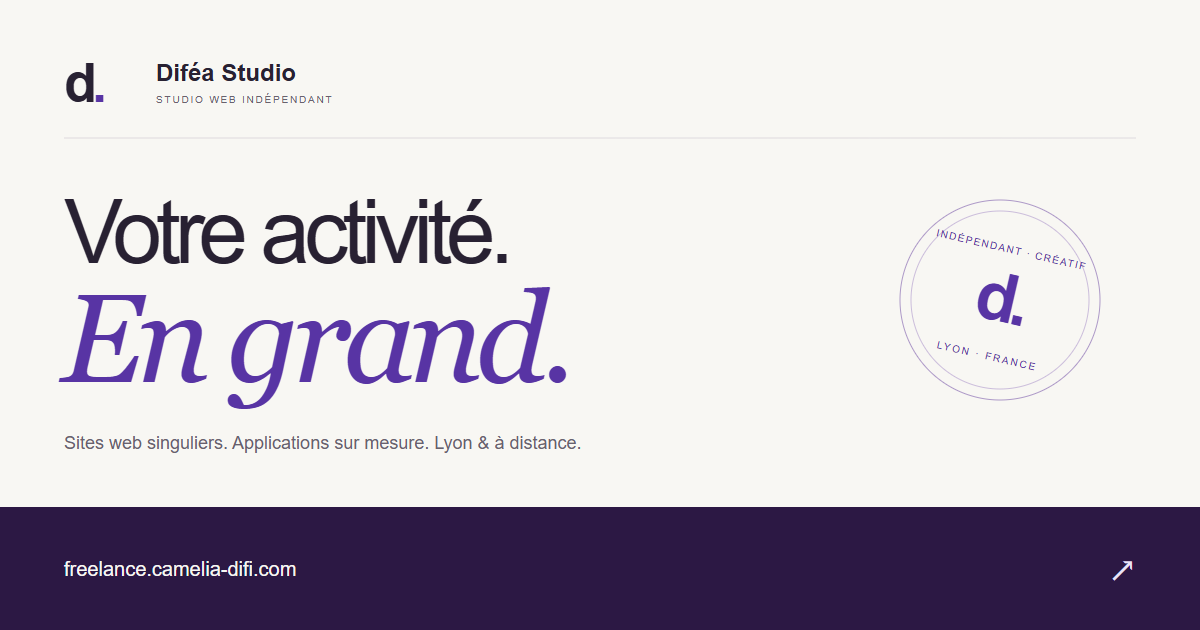
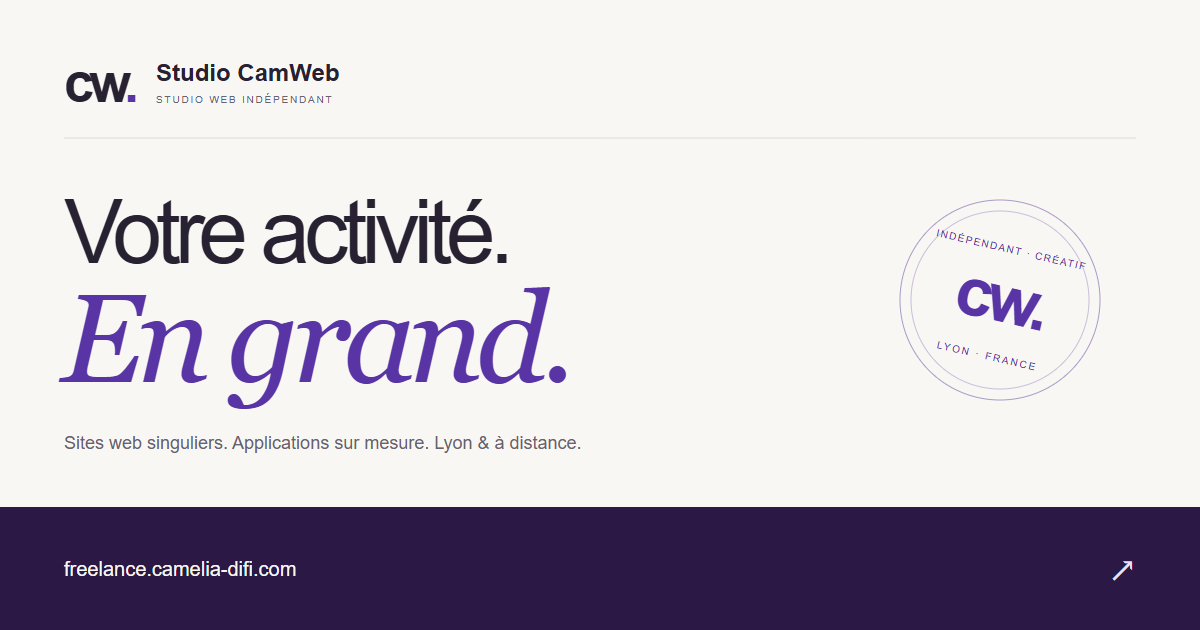
Apply Studio CamWeb brand and cw monogram

Changed region(s): [[0.1233, 0.0905, 0.2775, 0.1508], [0.8017, 0.4222, 0.8633, 0.5127], [0.0617, 0.0905, 0.1233, 0.181]]

diff --git a/src/App.jsx b/src/App.jsx
@@ -24,7 +24,7 @@ const questions = (t) => [
   [t("Quand peut-on démarrer ?"), t("Le délai dépend de mon planning et du périmètre de votre projet. Écrivez-moi pour connaître mes prochaines disponibilités.")],
 ];
 
-function Brand() { const t = useTranslation(); return <a className="brand" href="#top" aria-label={t("Diféa Studio, accueil")}><span className="brand-mark">d<span>.</span></span><span>Diféa Studio<span className="brand-caption">{t("STUDIO WEB INDÉPENDANT")}</span></span></a>; }
+function Brand() { const t = useTranslation(); return <a className="brand" href="#top" aria-label={t("Studio CamWeb, accueil")}><span className="brand-mark">cw<span>.</span></span><span>Studio CamWeb<span className="brand-caption">{t("STUDIO WEB INDÉPENDANT")}</span></span></a>; }
 
 function Header() { const t = useTranslation();
   const [open, setOpen] = useState(false);
@@ -33,7 +33,7 @@ function Header() { const t = useTranslation();
 
 function StudioSeal({ className = '' }) {
   const t = useTranslation();
-  return <div className={`studio-seal ${className}`} aria-hidden="true"><span>{t("INDÉPENDANT · CRÉATIF")}</span><strong>d<span>.</span></strong><span>LYON · FRANCE</span></div>;
+  return <div className={`studio-seal ${className}`} aria-hidden="true"><span>{t("INDÉPENDANT · CRÉATIF")}</span><strong>cw<span>.</span></strong><span>LYON · FRANCE</span></div>;
 }
 
 function MockSite({ variant = 'alba' }) {
@@ -80,7 +80,7 @@ function Stack() { const t = useTranslation(); const groups = [['Front-end', ['T
 
 function Method() { const t = useTranslation(); return <section className="section container" id="methode"><SectionHeading eyebrow={t("COMMENT ON TRAVAILLE ENSEMBLE")} title={<>{t("Un cap clair.")}<br /><em>{t("À chaque étape.")}</em></>} text={t("Pas de boîte noire : vous savez ce qui avance, ce qui vient ensuite et ce que cela coûte.")} /><div className="steps">{steps(t).map(([title, text], i) => <article className="step" key={title}><div className="step-track"><span>0{i + 1}</span><ArrowRight size={18} /></div><h3>{title}</h3><p>{text}</p></article>)}</div></section>; }
 
-function About() { const t = useTranslation(); return <section className="container about" id="apropos"><div className="about-art" aria-hidden="true"><span className="about-coordinates">{t("STUDIO WEB INDÉPENDANT")}</span><span className="about-monogram">d<span>.</span></span><div className="about-art-bottom"><span><MapPin size={14} /> Lyon, France</span><span>{t("Votre identité. En ligne.")}</span></div><div className="about-star">↗</div></div><div className="about-copy"><SectionHeading eyebrow={t("LE STUDIO, C’EST MOI")} title={<>{t("Un studio indépendant.")}<br /><em>{t("Une relation directe.")}</em></>} /><p>{t("Je suis Camelia Difi, développeuse web freelance à Lyon et fondatrice de Diféa Studio. J’accompagne les entrepreneurs, PME et équipes produit dans la création de sites et d’applications qui servent leur activité.")}</p><p>{t("Vous échangez directement avec moi, du premier rendez-vous à la mise en ligne. Je prends le temps de comprendre votre métier pour concevoir une solution juste, avec une identité soignée et des bases techniques solides.")}</p><a className="text-link" href="https://camelia-difi.com" target="_blank" rel="noopener noreferrer">{t("Découvrir mon parcours")} <ArrowUpRight size={18} /></a><a className="button cv-download" href="/cv/Camelia_Difi_CV_EN.pdf" download="Camelia_Difi_CV_EN.pdf"><Download size={17} />{t("Télécharger mon CV (anglais)")}</a></div></section>; }
+function About() { const t = useTranslation(); return <section className="container about" id="apropos"><div className="about-art" aria-hidden="true"><span className="about-coordinates">{t("STUDIO WEB INDÉPENDANT")}</span><span className="about-monogram">cw<span>.</span></span><div className="about-art-bottom"><span><MapPin size={14} /> Lyon, France</span><span>{t("Votre identité. En ligne.")}</span></div><div className="about-star">↗</div></div><div className="about-copy"><SectionHeading eyebrow={t("LE STUDIO, C’EST MOI")} title={<>{t("Un studio indépendant.")}<br /><em>{t("Une relation directe.")}</em></>} /><p>{t("Je suis Camelia Difi, développeuse web freelance à Lyon et fondatrice de Studio CamWeb. J’accompagne les entrepreneurs, PME et équipes produit dans la création de sites et d’applications qui servent leur activité.")}</p><p>{t("Vous échangez directement avec moi, du premier rendez-vous à la mise en ligne. Je prends le temps de comprendre votre métier pour concevoir une solution juste, avec une identité soignée et des bases techniques solides.")}</p><a className="text-link" href="https://camelia-difi.com" target="_blank" rel="noopener noreferrer">{t("Découvrir mon parcours")} <ArrowUpRight size={18} /></a><a className="button cv-download" href="/cv/Camelia_Difi_CV_EN.pdf" download="Camelia_Difi_CV_EN.pdf"><Download size={17} />{t("Télécharger mon CV (anglais)")}</a></div></section>; }
 
 function FAQ() { const t = useTranslation(); const [active, setActive] = useState(null); return <section className="section container faq-layout"><SectionHeading eyebrow={t("QUELQUES RÉPONSES")} title={<>{t("Vous vous demandez")}<br />{t("peut-être…")}</>} /><div className="faq-items">{questions(t).map(([question, answer], i) => <div className="faq-item" key={question}><h3><button aria-expanded={active === i} aria-controls={`answer-${i}`} onClick={() => setActive(active === i ? null : i)}>{question}{active === i ? <Minus size={19} /> : <Plus size={19} />}</button></h3><div id={`answer-${i}`} hidden={active !== i}><p>{answer}</p></div></div>)}</div></section>; }
 

diff --git a/index.html b/index.html
@@ -4,8 +4,8 @@
     <meta charset="UTF-8" />
     <meta name="viewport" content="width=device-width, initial-scale=1.0" />
     <meta name="theme-color" content="#f8f7f3" />
-    <meta name="description" content="Diféa Studio, studio web indépendant de Camelia Difi à Lyon : création de sites, applications sur mesure et refonte. Votre développeuse web freelance, de l’idée à la mise en ligne." />
-    <title>Diféa Studio | Camelia Difi, Développeuse web freelance à Lyon</title>
+    <meta name="description" content="Studio CamWeb, studio web indépendant de Camelia Difi à Lyon : création de sites, applications sur mesure et refonte. Votre développeuse web freelance, de l’idée à la mise en ligne." />
+    <title>Studio CamWeb | Camelia Difi, Développeuse web freelance à Lyon</title>
     <meta name="robots" content="index, follow, max-image-preview:large" />
     <link rel="canonical" href="https://freelance.camelia-difi.com/" />
     <link rel="alternate" hreflang="fr" href="https://freelance.camelia-difi.com/" />
@@ -13,16 +13,16 @@
     <link rel="alternate" hreflang="x-default" href="https://freelance.camelia-difi.com/" />
     <meta property="og:type" content="website" />
     <meta property="og:locale" content="fr_FR" />
-    <meta property="og:site_name" content="Diféa Studio — Studio web indépendant" />
-    <meta property="og:title" content="Diféa Studio | Camelia Difi, Développeuse web freelance à Lyon" />
+    <meta property="og:site_name" content="Studio CamWeb — Studio web indépendant" />
+    <meta property="og:title" content="Studio CamWeb | Camelia Difi, Développeuse web freelance à Lyon" />
     <meta property="og:description" content="Votre activité. En grand. Un studio web indépendant à Lyon pour des sites singuliers et des applications sur mesure." />
     <meta property="og:url" content="https://freelance.camelia-difi.com/" />
     <meta property="og:image" content="https://freelance.camelia-difi.com/social-card.png" />
     <meta property="og:image:width" content="1200" />
     <meta property="og:image:height" content="630" />
-    <meta property="og:image:alt" content="Diféa Studio — Studio web indépendant. Votre activité. En grand." />
+    <meta property="og:image:alt" content="Studio CamWeb — Studio web indépendant. Votre activité. En grand." />
     <meta name="twitter:card" content="summary_large_image" />
-    <meta name="twitter:title" content="Diféa Studio | Camelia Difi, Développeuse web freelance à Lyon" />
+    <meta name="twitter:title" content="Studio CamWeb | Camelia Difi, Développeuse web freelance à Lyon" />
     <meta name="twitter:description" content="Studio web indépendant à Lyon. Sites web et applications sur mesure. Parlons de votre projet." />
     <meta name="twitter:image" content="https://freelance.camelia-difi.com/social-card.png" />
     <script type="application/ld+json">
@@ -43,7 +43,7 @@
             "@type": "WebSite",
             "@id": "https://freelance.camelia-difi.com/#website",
             "url": "https://freelance.camelia-difi.com/",
-            "name": "Diféa Studio — Studio web indépendant à Lyon",
+            "name": "Studio CamWeb — Studio web indépendant à Lyon",
             "inLanguage": "fr-FR",
             "publisher": { "@id": "https://freelance.camelia-difi.com/#camelia" }
           },
@@ -51,7 +51,7 @@
             "@type": "WebPage",
             "@id": "https://freelance.camelia-difi.com/#webpage",
             "url": "https://freelance.camelia-difi.com/",
-            "name": "Diféa Studio | Camelia Difi, Développeuse web freelance à Lyon",
+            "name": "Studio CamWeb | Camelia Difi, Développeuse web freelance à Lyon",
             "inLanguage": "fr-FR",
             "isPartOf": { "@id": "https://freelance.camelia-difi.com/#website" },
             "about": { "@id": "https://freelance.camelia-difi.com/#camelia" }

diff --git a/src/translations.js b/src/translations.js
@@ -45,7 +45,7 @@ export const english = {
   'LE STUDIO, C’EST MOI': 'THE PERSON BEHIND THE STUDIO',
   'Un studio indépendant.': 'An independent studio.',
   'Une relation directe.': 'A personal connection.',
-  'Je suis Camelia Difi, développeuse web freelance à Lyon et fondatrice de Diféa Studio. J’accompagne les entrepreneurs, PME et équipes produit dans la création de sites et d’applications qui servent leur activité.': 'I’m Camelia Difi, a freelance web developer in Lyon and the founder of Diféa Studio. I help entrepreneurs, small businesses and product teams create websites and applications that support their business.',
+  'Je suis Camelia Difi, développeuse web freelance à Lyon et fondatrice de Studio CamWeb. J’accompagne les entrepreneurs, PME et équipes produit dans la création de sites et d’applications qui servent leur activité.': 'I’m Camelia Difi, a freelance web developer in Lyon and the founder of Studio CamWeb. I help entrepreneurs, small businesses and product teams create websites and applications that support their business.',
   'Vous échangez directement avec moi, du premier rendez-vous à la mise en ligne. Je prends le temps de comprendre votre métier pour concevoir une solution juste, avec une identité soignée et des bases techniques solides.': 'You work directly with me, from our first conversation to launch. I take the time to understand your business and create the right solution, with a thoughtful identity and solid technical foundations.',
   'Votre identité. En ligne.': 'Your identity. Online.',
   'projet': 'project', 'développement': 'development', 'possibilités': 'possibilities',
@@ -53,7 +53,7 @@ export const english = {
   'Nouveau projet': 'New project', 'Nom': 'Name', '/mentions-legales.html': '/en/legal-notice.html',
   'Expertises': 'Services', 'Méthode': 'Process', 'À propos': 'About',
   'DÉVELOPPEUSE FREELANCE': 'FREELANCE DEVELOPER',
-  'Diféa Studio, accueil': 'Diféa Studio, home', 'Navigation principale': 'Main navigation',
+  'Studio CamWeb, accueil': 'Studio CamWeb, home', 'Navigation principale': 'Main navigation',
   'Fermer le menu': 'Close menu', 'Ouvrir le menu': 'Open menu',
   'Parlons de votre projet': 'Let’s discuss your project',
   'Illustration d’une application web, mobile et cloud': 'Illustration of a web, mobile and cloud application',

diff --git a/public/en/thank-you.html b/public/en/thank-you.html
@@ -1,1 +1,1 @@
-<!doctype html><html lang="en"><head><meta charset="UTF-8"><meta name="viewport" content="width=device-width, initial-scale=1"><meta name="robots" content="noindex, follow"><title>Thank you for your message | Diféa Studio</title><link rel="icon" href="/favicon.svg"><style>body{margin:0;padding:64px 24px;background:#f8f7f3;color:#282132;font-family:system-ui,sans-serif;line-height:1.8}main{max-width:650px;margin:auto}h1{font-size:clamp(30px,6vw,48px);line-height:1.2}a{color:#5834a4}a:focus-visible{outline:3px solid #8965cb;outline-offset:5px}</style></head><body><main><p>Diféa Studio — Independent web studio</p><h1>Thank you for your message</h1><p>Your enquiry has been sent. I will get back to you within 48 hours.</p><a href="/en/">Back to the website ↗</a></main></body></html>
+<!doctype html><html lang="en"><head><meta charset="UTF-8"><meta name="viewport" content="width=device-width, initial-scale=1"><meta name="robots" content="noindex, follow"><title>Thank you for your message | Studio CamWeb</title><link rel="icon" href="/favicon.svg"><style>body{margin:0;padding:64px 24px;background:#f8f7f3;color:#282132;font-family:system-ui,sans-serif;line-height:1.8}main{max-width:650px;margin:auto}h1{font-size:clamp(30px,6vw,48px);line-height:1.2}a{color:#5834a4}a:focus-visible{outline:3px solid #8965cb;outline-offset:5px}</style></head><body><main><p>Studio CamWeb — Independent web studio</p><h1>Thank you for your message</h1><p>Your enquiry has been sent. I will get back to you within 48 hours.</p><a href="/en/">Back to the website ↗</a></main></body></html>

diff --git a/public/merci.html b/public/merci.html
@@ -1,1 +1,1 @@
-<!doctype html><html lang="fr"><head><meta charset="UTF-8"><meta name="viewport" content="width=device-width, initial-scale=1"><meta name="robots" content="noindex, follow"><title>Merci pour votre message | Diféa Studio</title><link rel="icon" href="/favicon.svg"><style>body{margin:0;padding:64px 24px;background:#f8f7f3;color:#282132;font-family:system-ui,sans-serif;line-height:1.8}main{max-width:650px;margin:auto}h1{font-size:clamp(30px,6vw,48px);line-height:1.2}a{color:#5834a4}a:focus-visible{outline:3px solid #8965cb;outline-offset:5px}</style></head><body><main><p>Diféa Studio — Studio web indépendant</p><h1>Merci pour votre message</h1><p>Votre demande a bien été envoyée. Je reviens vers vous sous 48 h.</p><a href="/">Retour au site ↗</a></main></body></html>
+<!doctype html><html lang="fr"><head><meta charset="UTF-8"><meta name="viewport" content="width=device-width, initial-scale=1"><meta name="robots" content="noindex, follow"><title>Merci pour votre message | Studio CamWeb</title><link rel="icon" href="/favicon.svg"><style>body{margin:0;padding:64px 24px;background:#f8f7f3;color:#282132;font-family:system-ui,sans-serif;line-height:1.8}main{max-width:650px;margin:auto}h1{font-size:clamp(30px,6vw,48px);line-height:1.2}a{color:#5834a4}a:focus-visible{outline:3px solid #8965cb;outline-offset:5px}</style></head><body><main><p>Studio CamWeb — Studio web indépendant</p><h1>Merci pour votre message</h1><p>Votre demande a bien été envoyée. Je reviens vers vous sous 48 h.</p><a href="/">Retour au site ↗</a></main></body></html>

diff --git a/public/en/legal-notice.html b/public/en/legal-notice.html
@@ -22,12 +22,12 @@
     <main>
       <a class="back" href="/en/">← Back to the website</a>
       <h1>Legal notice</h1>
-      <p class="subtitle">Diféa Studio — Independent web studio</p>
+      <p class="subtitle">Studio CamWeb — Independent web studio</p>
       <section aria-labelledby="editor">
         <h2 id="editor">Website publisher</h2>
         <dl>
           <dt>Identity</dt><dd>Camelia Difi — Sole trader (EI — French individual entrepreneur)</dd>
-          <dt>Website brand name</dt><dd>Diféa Studio</dd>
+          <dt>Website brand name</dt><dd>Studio CamWeb</dd>
           <dt>Business regime</dt><dd>Micro-enterprise (French regime)</dd>
           <dt>SIREN</dt><dd>107819476</dd>
           <dt>SIRET</dt><dd>10781947600014</dd>

diff --git a/public/mentions-legales.html b/public/mentions-legales.html
@@ -22,12 +22,12 @@
     <main>
       <a class="back" href="/">← Retour au site</a>
       <h1>Mentions légales</h1>
-      <p class="subtitle">Diféa Studio — Studio web indépendant</p>
+      <p class="subtitle">Studio CamWeb — Studio web indépendant</p>
       <section aria-labelledby="editor">
         <h2 id="editor">Éditrice du site</h2>
         <dl>
           <dt>Identité</dt><dd>Camelia Difi — Entrepreneur individuel (EI)</dd>
-          <dt>Nom utilisé sur le site</dt><dd>Diféa Studio</dd>
+          <dt>Nom utilisé sur le site</dt><dd>Studio CamWeb</dd>
           <dt>Régime</dt><dd>Micro-entreprise</dd>
           <dt>SIREN</dt><dd>107819476</dd>
           <dt>SIRET</dt><dd>10781947600014</dd>

diff --git a/README.md b/README.md
@@ -1,4 +1,4 @@
-# Diféa Studio — studio web de Camelia Difi
+# Studio CamWeb — studio web de Camelia Difi
 
 Refonte du site en React avec Vite. Les composants et les contenus sont dans `src/App.jsx`, les styles responsive dans `src/styles.css`.
 
